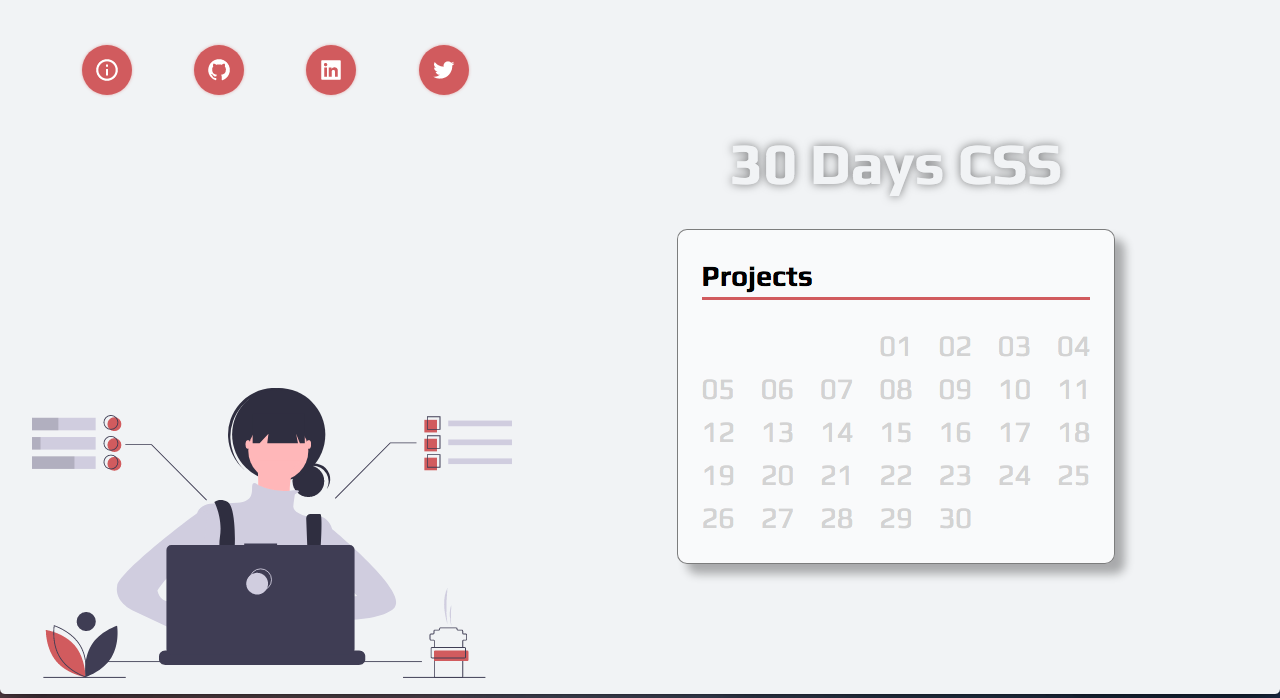
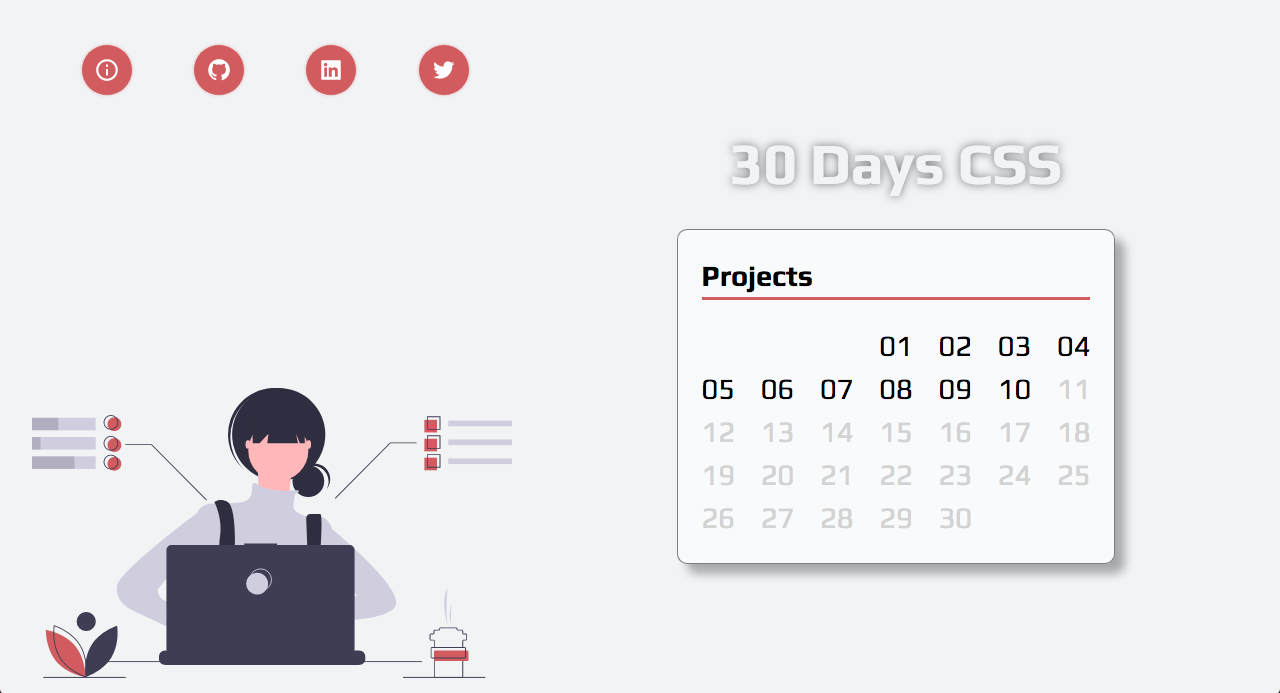
update landing page img

diff --git a/index.html b/index.html
@@ -54,7 +54,7 @@
         <a href="./projects/day07/index.html">07</a>
         <a href="./projects/day08/index.html">08</a>
         <a href="./projects/day09/index.html">09</a>
-        <a class="inactive">10</a>
+        <a href="./projects/day10/index.html">10</a>
         <a class="inactive">11</a>
       </div>
       <div class="week03">
